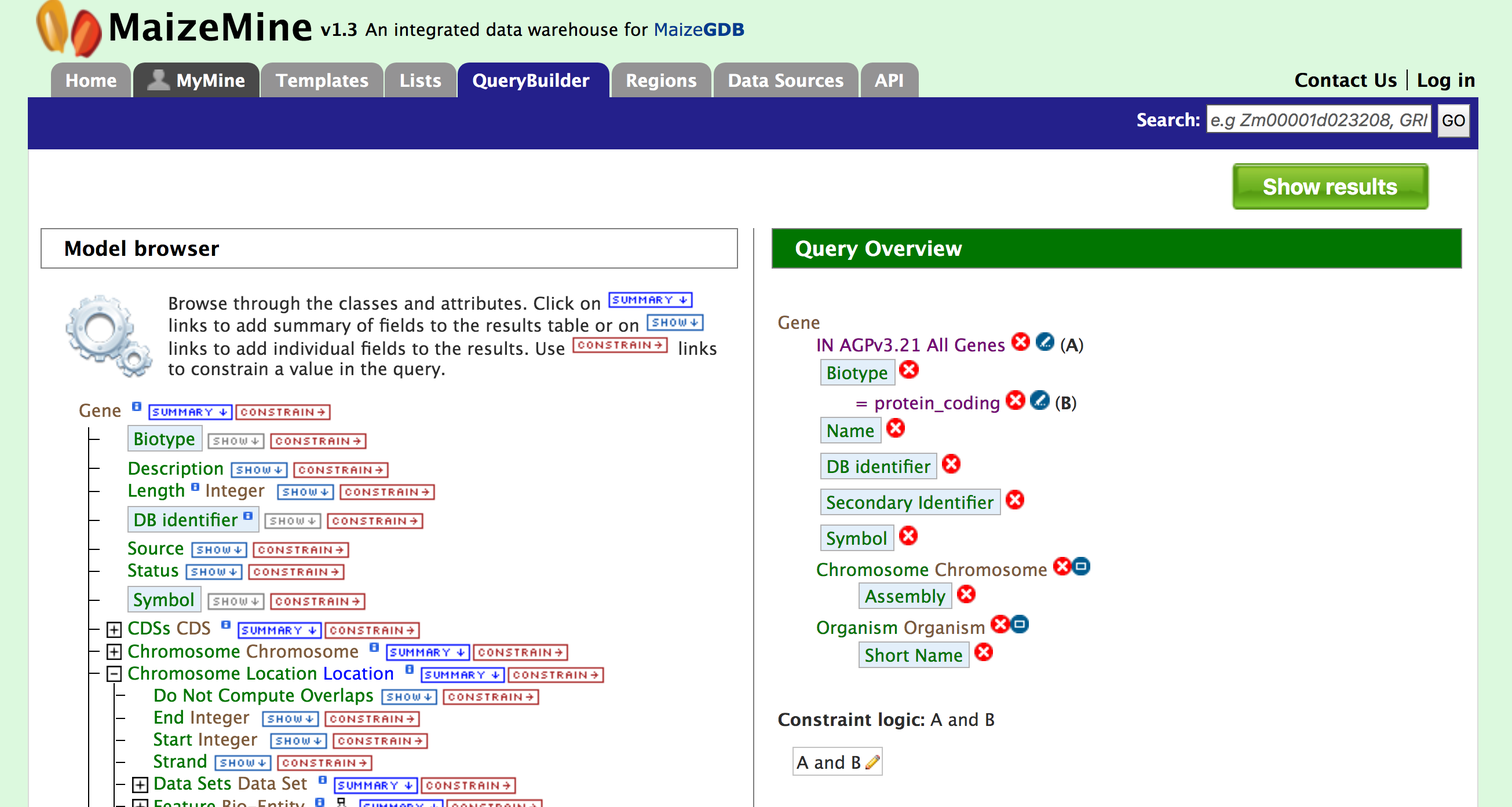
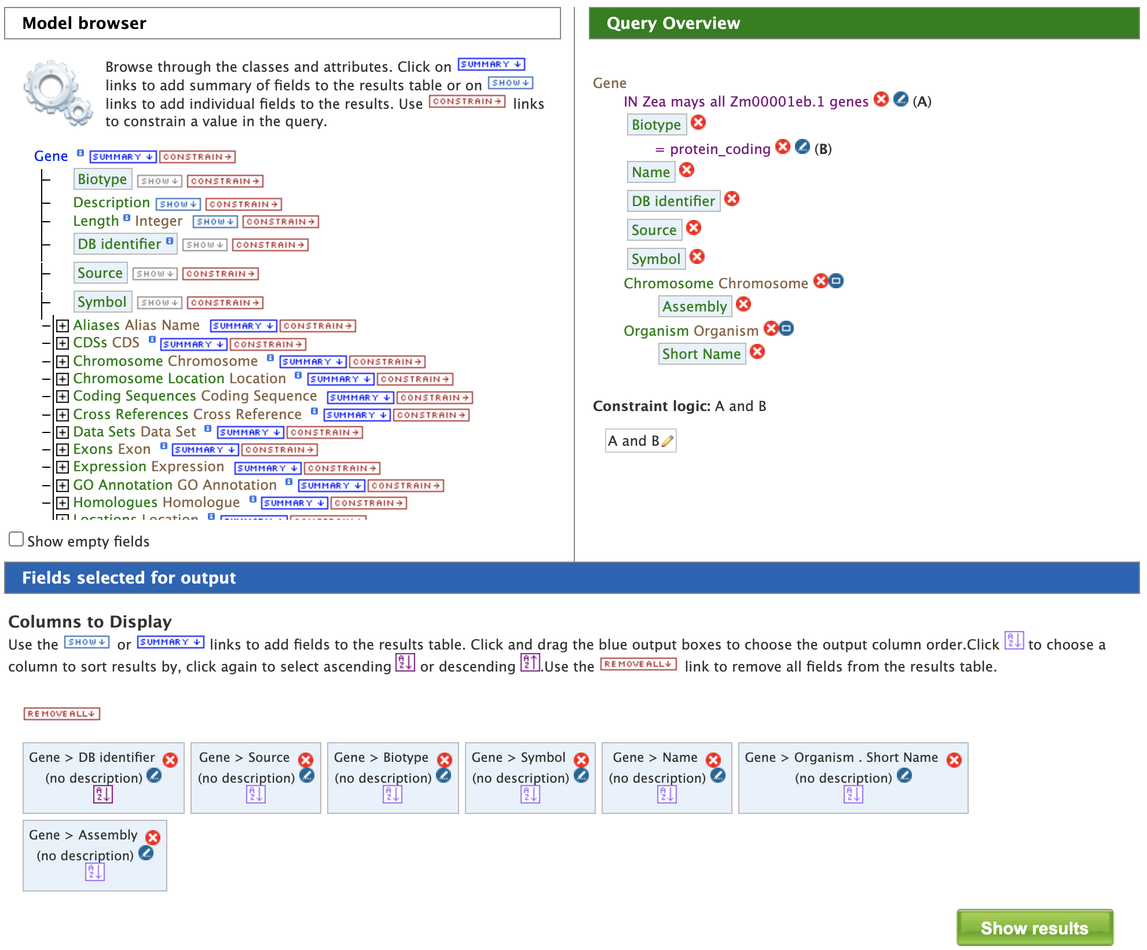
Updated documentation for v1.4 release

diff --git a/docs/index.md b/docs/index.md
@@ -3,7 +3,7 @@
 
 # Welcome to MaizeMine 
 ![Menu Bar](./images/fig1_homepage_main_menu_bar.png "Menu Bar")
-MaizeMine is powered by InterMine and provides a user-friendly way to access genomic, proteomic, interaction and literature data for the important crop plant *Zea mays*. MaizeMine is a part of the [Maize Genetics and Genomics Database](www.MaizeGDB.org) which is supported by the USDA-ARS.  This tutorial is focused on giving users an introduction to the different parts of MaizeMine and how users can fully leverage MaizeMine.  Currently, MaizeMine supports two versions (AGPv3 and AGPv4) of the maize B73 reference genome and the AGPv3.21, AGPv4 and RefSeq gene sets.  We anticipate adding additional updated B73 assemblies as they become available.
+MaizeMine is powered by InterMine and provides a user-friendly way to access genomic, proteomic, interaction and literature data for the important crop plant *Zea mays*. MaizeMine is a part of the [Maize Genetics and Genomics Database](www.MaizeGDB.org) which is supported by the USDA-ARS.  This tutorial is focused on giving users an introduction to the different parts of MaizeMine and how users can fully leverage MaizeMine.  The latest MaizeMine release supports the Zm-B73-REFERENCE-NAM-5.0 genome assembly of the maize B73 reference genome and the Zm00001eb.1 and RefSeq gene sets.  We anticipate adding additional updated B73 assemblies as they become available.
 > Link to the MaizeMine Homepage: http://maizemine.maizegdb.org 
 > 
 
@@ -24,7 +24,9 @@ _Regions_ – a Genomic Region Search page where users can enter genomic coordin
 
 _Data sources_ – a page where all data sources, their links and the date of download is specified in a tabulated format.
 
-__Help_- a page for guidance, when working through MaizeMine. _API_ – a page where users can discover more about the InterMine API to programmatically access MaizeMine.
+_Help_- a page for guidance, when working through MaizeMine. 
+
+_API_ – a page where users can discover more about the InterMine API to programmatically access MaizeMine.
 
 _MyMine_ – allows users the option of setting up a password protected, account in MaizeMine.  Once users are logged in, MyMine serves as portal for accessing saved lists and templates. Users can also manage their account information using MyMine.
 
@@ -32,17 +34,17 @@ _MyMine_ – allows users the option of setting up a password protected, account
 
 There are several different ways for users to query MaizeMine.
 
-**Quick-Search**
+**Quick Search**
 
-The ‘Quick-search’ enables users to search keywords from any of the datasets on MaizeMine. The quick-search box is on the main page and on the upper-right hand corner of each page.  Users can input their gene name, gene identifiers or keywords and search MaizeMine. Users can make use of wildcard character ‘*’ to get all results that matches their query.  Let us consider gene ‘bz1’ as an example. Enter ‘bz1’ in the search box and click ‘Search’.
+The ‘Quick Search’ enables users to search keywords from any of the datasets in MaizeMine. The Quick Search box is on the main page and on the upper-right hand corner of each page.  Users can input their gene name, gene identifiers or keywords and search MaizeMine. The wildcard character ‘*’ can be used to get all results that matches the query. As an example, enter ‘GR2b’ in the search box and click ‘Search’.
 
 ![Quick Search](./images/fig2_quick_search.png "Quick Search")
 
-The results page is tabulated below and shows a summary of your query.
+The results page is tabulated below and shows a summary of the query.
 
 ![Search Results](./images/fig3_Quick_Serach_bz1_results.png "Search Results")
 
-Users can filter the results based on ‘Category’ or ‘Organism’ (red box). The score column in the result table indicates the similarity of your query to the result fetched by MaizeMine.
+The results may be filtered based on ‘Category’ or ‘Organism’ (red box). The score column in the result table indicates the similarity of the query to the result fetched by MaizeMine.
 
 The results page can also be converted to a list. To enable this feature click on ‘Gene’ in ‘Hits by Category’ section marked with a red box.
 
@@ -52,213 +54,251 @@ This will filter the results for the feature type ‘Gene’ and checkboxes will
 
 **Templates**
 
-In addition to the Quick Search box, users can make use of templates which are pre-constructed queries developed using the “QueryBuilder” which will be covered later.  Templates can be accessed by clicking on the ‘Templates’ tab at the top of the home page or by accessing the “popular templates” section near the bottom of the page where templates are organized by type.  The Templates page provides users with a list of templates that users can choose based on the nature of their query.  Below we will provide two examples using the Templates feature of MaizeMine.  
+In addition to the Quick Search box, users can make use of templates which are pre-constructed queries developed using the “QueryBuilder” which will be covered later.  Templates can be accessed by clicking on the “Templates” menu tab or by accessing the “popular templates” section near the bottom of the page where templates are organized by type.  The Templates page provides a list of templates that users may choose from based on the nature of their query.  Below are two examples using the Templates feature of MaizeMine.  
 
 **1. Retrieving Gene Expression Values for a Gene**
-To utilize this template, which is shown in the figure below, users need only enter the gene model name (DB identifier) for their gene of interest and hit the “show results” button.  In addition to information on gene expression, detailed information will be returned on the sample growth stage, organ group, and plant ontology (PO) terms.
+To utilize this template, which is shown in the figure below, users only need to enter the gene model name (DB identifier) for their gene of interest and click the “Show Results” button.  In addition to information on gene expression, detailed information will be returned on the sample growth stage, organ group, and plant ontology (PO) terms.
 
 ![Gene Expression Search](./images/fig5_gene_expression_template.png "Gene Expression Search")
-The result page returns gene expression values in FPKP or normalized counts for 95 tissues. Users can also customize the layout of the result page by clicking on ‘Manage Columns’ (Box 1). Users can generate the code (Box 2) for the query in Perl, Python, Java, Ruby, JavaScript or XML. Users can also download the search results by clicking on “Export” (Box 3). The results can be formatted as tab-delimited, comma-separated values, XML or JSON.  Additionally, if the results are genomic features, then users can download the results in GFF3 and BED format as well.
+The result page returns gene expression values in FPKP for 91 tissues. The layout of the results table may be customized by clicking on ‘Manage Columns’ (Box 1). Users may generate the code for the query in Perl, Python, Java, Ruby, JavaScript or XML (Box 2). The search results can be downloaded by clicking on “Export” (Box 3). The format options for the results download file are tab-separated (.tsv), comma-separated values (.csv), XML, or JSON.  Additionally, if the results are genomic features, then the results can be downloaded in GFF3 and BED format as well.
 
 ![Gene Expression Search Results](./images/fig6_gene_expression_template_results.png "Gene Expression Search Results")
 
 **2.  Retrieving Gene Ontology (GO) Terms for a Gene**
-Given a maize gene symbol or gene ID, Gene Ontology terms can be obtained using the “Gene to GO Terms” template.  Let us use the gene id GRMZM2G094632 for our example below.  It is worth noting that any template can edited using the “Edit Query” feature (red box) that allows customization of a template to meet specific user needs.  As you gain experience with the QueryBuilder, modifying a preexisting template to meet your needs may be a good alternative to building a query de novo.
+Given a maize gene symbol or gene ID, Gene Ontology terms can be obtained using the “Gene to GO Terms” template.  The gene id Zm00001eb105010 is pre-filled in the text box as an example.  It is worth noting that any template may be edited using the “Edit Query” feature (red box) that allows customization of a template to meet specific user needs.  As users gain experience with the QueryBuilder, modifying a preexisting template may be a good alternative to building a query de novo.
 
 ![Searching for GO Terms Attached to a Gene](./images/fig7_gene_go_terms_template.png "Searching for GO Terms Attached to a Gene")
-A table is delivered below with the GO term identifiers, names, and descriptions.  Using the “Manage Columns” feature (red box #1), it is possible to re-arrange, remove, or even add columns to the table.  Using the “Manage Filters” button (red box #2) it is possible to edit of remove active filters and change the constraint logic applied within a template.  Each column in a table can be sorted, removed, or hidden.  Particularly useful is the “view column summary” feature represented by the small bar graph icon (red box #3).  Clicking on this icon allows viewing of the number, name, and counts of the types of entries within a column.
+After clicking "Show Results", a table is delivered below with the GO term identifiers, names, and descriptions.  Using the “Manage Columns” feature (red box #1), it is possible to re-arrange, remove, or even add columns to the table.  Using the “Manage Filters” button (red box #2) it is possible to edit of remove active filters and change the constraint logic applied within a template.  Each column in a table may be sorted, removed, or hidden.  Particularly useful is the “view column summary” feature represented by the small bar graph icon (red box #3).  Clicking on this icon allows viewing of the number, name, and counts of the types of entries within a column.
 
 ![GO Search Results](./images/fig8_gene_goterms_template_results.png "GO Search Results")
 
 ## **Query Builder**
 
-We have provided templates suitable for different types of queries but if users need more fidelity in their search they can make use of the QueryBuilder. The possibilities of queries using the QueryBuilder are endless. You can format the output the way you want and constrain your queries to perform complex search operations.  First lets select “Gene” as a Data Type (red arrow #1) in the QueryBuilder start page shown in the figure below. 
+While the templates provided are suitable for many different types of searches, new queries may be built from scratch using the QueryBuilder. The possibilities of queries using the QueryBuilder are endless. The query constraints may be customized to perform complex search operations, and the output can be formatted as desired.
+
+Three scenarios for using the QueryBuilder are described below.
+
+Each example begins by selecting “Gene” as the Data Type (red arrow #1) in the QueryBuilder start page as shown in the figure below. 
 
 ![Start Page for Query Builder](./images/fig9_querybuilder_startpage.png "Start Page for Query Builder")
 
-Then click on ‘Select’ (red arrow #2).  This will take you to a Model browser as shown below where you can select the attributes for the feature class “Gene”.  This should take you to page where you screen looks like the image below.  Now let us consider three scenarios for using the QueryBuilder,
-
+After clicking ‘Select’ (red arrow #2), the Model browser appears as shown below, displaying the attributes for the selected feature class “Gene”.
 
 ![Empty Model Browser Page](./images/fig10_querybuilder_modbrow_empty.png "Empty Model Browser Page")
 
-**1.  Querying for Protein Coding genes in AGPv3**
+**Example 1.  Querying for protein-coding genes in Zm00001eb.1**
 
-First, we want to restrict or constrain our results for protein genes in AGPv3.  Remember that we have three gene model sets in MaizeMine: AGPv3.21, AGPv4, and the latest release from RefSeq.  So first click on “Summary” box for “Gene” in the Model Browser shown in the left panel of the figure above and then on the “Constrain” box.  You should see the “Constrain” box pop up as shown in the figure below and then check the “Contained In list” box and select AGPv3.21All Genes.
+In this example, the results are restricted to protein genes in the Zm00001eb.1 gene set.  Recall that there are two gene model sets for *Zea mays* in MaizeMine v1.4: Zm00001eb.1 and the latest release from RefSeq.  First click on the “Summary” tab for “Gene” in the Model Browser shown in the left panel of the figure above and then the “Constrain” tab (to right of “Summary”).  A “Constraint for Gene” box pops up as shown in the figure below. Check the box next to “Contained in list:” and select Zm00001eb.1 Genes from the dropdown.
 
-![Constraining your search to All AGPv3.21 Genes](./images/fig11_querybuilder_constrain_biotypeV3.png "Constraining a search to All AGPv3.21 Genes") 
+![Constraining the search to all Zm00001eb.1 Genes](./images/fig11_querybuilder_constrain_biotypeV3.png "Constraining a search to all Zm00001eb.1 Genes") 
 
-Then click on "Add to query" and you will be returned to the Model Browser page.  Next click on ‘Show’ tab for “Biotype”, and “Constrain” tab and select “protein_coding” as shown in the figure below. 
+Then click “Add to query”. Note that the “Query Overview” section has been updated to reflect the selected attributes and query constraint. The “Summary” tab for Genes automatically adds the Gene attributes DB Identifier, Source, Biotype, Symbol, and Name, along with the Organism name and Chromosome assembly linked to the genes. At the top of the Query Overview , “IN Zea mays all Zm00001eb.1 genes” appears just below “Gene” as a constraint for this query. Next click on the “Constrain” tab for “Biotype” and select “protein_coding” from the dropdown as shown in the figure below. 
 
-![Restricting your search to protein coding genes](./images/fig12_querybuilder_constrain_protein.png "Restricting your search to protein coding genes")
+![Restricting the search to protein-coding genes](./images/fig12_querybuilder_constrain_protein.png "Restricting the search to protein-coding genes")
 
-By constraining your query to “protein_coding” you are restricting your results to only high quality protein coding gene models from AGPv3.21.  Now click on “Add to query”.  The Model Browser should resemble the image below
+Constraining the query to “protein_coding” filters the results to only high quality protein-coding gene models from Zm00001eb.1.  Click on “Add to query”.  The Model Browser should resemble the image below.
 
 ![Model Browser showing the current query](./images/fig13_querybuilder_modbrow_allv3.png "Model Browser showing the current query")
 
-Now if you click on ‘Show results’ it will show all 39,301 genes that have status “protein_coding” as shown below:
+Finally, clicking on “Show results” returns a table of 39,756 genes that have the status “protein_coding” as shown below:
 
-![Query Results](./images/fig14_querybuilder_v3_allprotiens_results.png "Query Results")
+![Query Results](./images/fig14a_querybuilder_v3_allproteins_results.png "Query Results")
 
-**2. Querying for protein coding genes on a particular chromosome** 
+Since there are no values in the Symbol or Name columns, these may be removed from the results table by clicking on the **&#215;** icon above the columns. The table then appears as shown below.
 
-Users can build on the above query by adding another constraint to limit the search to protein coding genes on a specific chromosome as shown in the figure below. Start by expanding the “Chromosome” feature class (red arrow #1) on and then select “summary” (red arrow #2).  Be sure to use the “Chromosome” feature class and not the “Chromosome Location” feature class that is located lower on the model browser.  Next, select “Constrain” on the “DB identifier” feature class (red arrow #3) and select “=” and enter “Chr1” in the pop up box and click on “Add to Query”.  Your query overview in the panel on the right side should resemble the one in the box below.
+![Query Results with columns removed](./images/fig14b_querybuilder_v3_allproteins_results.png "Query Results with columns removed")
 
-![Restricting a search to a specific chromosome](./images/fig15_modbrows_constrain_chr1.png "Restricting a search to a specific chromosome")
+**Example 2. Querying for protein-coding genes on a particular chromosome** 
 
-Note that in some cases you might want to restrict your query to a subset of coordinates on Chr1.  We will not be doing this example but in this situation you would expand the “Chromosome Location” feature and enter your desired coordinates under the “Constrain” “End Integers” and “Start Integers” boxes (red arrow #4).  It is worth noting that there might be easier ways to do this using the “Regions” search depending what information you might wish to obtain.  The Regions Search will be described later.
+This next example builds on the above query by adding another constraint to limit the search to protein-coding genes on a specific chromosome as shown in the figure below.
 
-If you click on the “Show Results” box, your results should look like those shown for 6007 protein coding genes on chromosome 1 below.
+Note that when viewing the results table, it is possible to return to the Query Builder for that query by clicking the Query link just above the table (red arrow in figure below). This allows users to easily modify their queries without having to repeat the steps of setting up the query each time.
 
-![Query Results for Protein Coding Genes on Chromosome 1](./images/fig16_querybuilder_results_chr1.png "Query Results for Protein Coding Genes on Chromosome 1")
+![Query link to return to Query Builder](./images/fig14c_querybuilder_v3_allproteins_results.png "Query link to return to Query Builder")
 
-**3. Querying for exon information in protein coding genes** 
+Back in the Query Builder interface, begin by clicking the &#x002B; (plus sign) next to “Chromosome” to expand the Chromosome feature class (red arrow #1) and then select “summary” (red arrow #2).  Be sure to use the “Chromosome” feature class and not the “Chromosome Location” feature class that is located lower on the model browser.  
 
-Users can customize the above query even  further by configuring the query to show all the exons and their lengths for each Gene as shown in the figure below.  Expand the ‘Exon’ feature class (red arrow) and select "show" on “DB Identifier” and “Length Integer” (red arrows).
+![Restricting a search to a specific chromosome](./images/fig15a_modbrows_constrain_chr1.png "Restricting a search to a specific chromosome")
+
+Next, click “Constrain” next to the “DB identifier” attribute (red arrow #3). In the constraint pop up box, select “=” from the drop-down and enter “chr1” into the text field; then click “Add to Query”. 
+
+![Chromosome identifier constraint pop up](./images/fig15b_modbrows_constrain_chr1.png "Chromosome identifier constraint pop up")
+
+The Query Overview in the panel on the right side should resemble the one in the box below.
+
+![Query overview for example 2](./images/fig15c_modbrows_constrain_chr1.png "Query overview for example 2")
+
+It is also possible to restrict the query to a subset of coordinates on chr1. In this situation, the “Chromosome Location” feature class would be expanded to reveal the attributes “Start Integers” and “End Integers”, and the desired coordinates would be entered after clicking the “Constrain” tab next to each attribute (similar to the previous step of constraining the chromosome identifier). It is worth noting that there might be easier ways to do this using the “Genomic Regions Search”, which will be described later.
+
+Clicking “Show Results” returns a table of 5,892 protein-coding genes on chromosome 1 as shown below.
+
+![Query Results for protein-coding Genes on Chromosome 1](./images/fig16_querybuilder_results_chr1.png "Query Results for protein-coding Genes on Chromosome 1")
+
+**3. Example 3: Querying for exon information in protein-coding genes** 
+
+The above results may be customized even further by configuring the query to show all of the exons and their lengths for each Gene as shown in the figure below.  Expand the “Exon” feature class (red arrow #1) and select “Show” next to the “DB identifier” and “Length” attributes (red arrows #2 and #3).
 
 ![Querying for Exon Information](./images/fig17_QueryBuilder_modbrow_Exon.png "Querying for Exon Information")
 
-To make the output more visually pleasing, click on the blue square near Exon collection in “Query Overview” (red arrow in Query Overview panel) and you will see the popup below.
+To make the output more visually pleasing, click on the blue square to the right of the Exon collection in the Query Overview panel (red arrow #4) and the popup shown below will appear.
 
-![Showing exons if  present](./images/fig18_querybuilder_constrain_popup_showallexons.png "Show exons if present")
+![Showing exons if present](./images/fig18_querybuilder_constrain_popup_showallexons.png "Show exons if present")
 
-Select ‘Show all Genes and show Exons if they are present’ and click on ‘Add to query’.  Now run the query and you should see the following results page,
+Select “Show all Genes and show Exons if they are present” and click on “Add to query”.  This will group all of the exons together for each Gene in the results table (rather than displaying one exon per row). Now run the query to view the table of results as shown below.
 
 ![Showing all exons with popup closed](./images/fig19_querybuild_genelist_Exons_closed.png "showing all exons with popup closed")
 
-There are 6,007 genes on Chromosome 1 and the AC155624.2_FG006 gene model has 5 exons. Users can click on the “5 exons” to expand the table with additional rows describing the length and DB identifier for each of the 5 exons as shown in the figure below.
+There are 5,892 genes on Chromosome 1 and the Zm00001eb000010 gene model has nine exons. Click on the “9 exons” text to expand the table with additional rows describing the length and DB identifier for each of the nine exons as shown in the figure below.
 
 ![Showing exons with popup open](./images/fig20_querybuild_genelist_Exons_open.png "Showing exons with popup open")
 
 ## **Report Page**
 
-Every query result has a report page and the layout of the report page depends on the data available for a given query. Using the example of “Zm00001d023210”, the report and summary section for this gene is shown below
+Every class (e.g., Gene, Protein, Exon) in MaizeMine has a report page; the layout of the report page depends on the data available for a given query. There are several ways to access a report page for a class: one method is to click on an the blue links in the results table after running or query, another is to simply search for an identifier using the Quick Search as described above and click on one of the search results.
+
+Using the example of “Zm00001eb000580”, the report and summary section for this gene is shown below.
 
 ![Report Page Summary](./images/fig21_reportsummary.png "Report Page Summary")
 
-The report page provides a complete description for gene Zm00001d023210. The header of the report page shows the DB identifier. The ‘Biotype’ indicates the type of gene, in this case a protein coding gene. Other possible values are,
+The report page provides a complete description for gene Zm00001eb000580. The DB identifier and organism name are displayed in the header. The “Biotype” indicates the type of gene, in this case a protein-coding gene. Other possible values are:
 
-· transposable_element – for transposable element
+· non_coding – non-coding gene
 
-· low_confidence – for low confidence gene model
+· lncRNA – long non-coding RNAs
 
-· lncRNA – for long non coding RNA
+· miRNA – micro RNAs
 
-· lincRNA – long non coding intergenic RNA
+· rRNA – ribosomal RNAs
 
-· miRNA – for micro RNAs
+· snRNA - small nuclear RNAs
 
-· rRNA – for ribosomal RNAs
+· snoRNA - small nucleolar RNAs
 
-· tRNA – for transfer RNAs
+· tRNA – transfer RNAs
 
-The summary section of the report page provides a summary about the gene such as length, chromosome location and strand information. Users can also get the complete FASTA sequence of the gene by clicking on the FASTA tab.
+· misc_RNA - miscellaneous RNA
+
+· antisense_RNA - antisense RNAs
+
+**Summary:**
+
+The Summary section of the report page provides a summary about the gene such as length, chromosome location, and strand information. Users can also download the complete FASTA sequence of the gene by clicking on the FASTA tab.
 
 **Alias and DBxref:**
 
-The Alias and DBxref provides aliases (if any) and cross references to other gene model sets or assemblies.  Currently, MaizeMine has gene models for the two latest B73 assemblies and the latest RefSeq gene models.
+The Alias and DBxref section provides aliases (if any) and cross references to other gene model sets or assemblies.  The current release of MaizeMine has gene models for the latest B73 assembly and the latest RefSeq gene models.
 
 ![DBxref section of reports page](./images/fig22_reportsummary_Dbxref.png "DBxref section of the reports page")
 
-**Transcript and Gene Expression:**
+**Transcript:**
 
-This section shown in the figure below provides information about the gene model. It displays all the transcripts and exons for a gene. The FASTA sequence of each transcript or exon (red arrows) can be downloaded by clicking on the FASTA tab. Users can also download the coding sequence for a transcript, when available, by clicking on the FASTA tab in the CDS column.  The Gene Expression section provides RNA-SEQ mean based expression data for 95 tissues for in both FPKM and normalized expression values.
+This section, shown in the figure below, provides information about the gene model. The first table displays all of the transcripts and exons for a gene. The FASTA sequence of each transcript or exon (red arrows) can be downloaded by clicking on the FASTA tab. The coding sequences for a transcript can also be downloaded, when available, by similarly clicking on the FASTA tab in the Coding Sequences column. The second table displays Polypeptides for the gene (if any).
 
-![Transcript and gene expression section](./images/fig23_reportsummary_transcipt_geneexpression.png "Transcript and gene expression section")
+![Transcript section](./images/fig23a_reportsummary_transcript_geneexpression.png "Transcript section")
+
+**Gene Expression:**
+
+The Gene Expression section provides RNA-SEQ mean based expression data for 91 tissues in FPKM expression values.
+
+![Gene expression section](./images/fig23b_reportsummary_transcript_geneexpression.png "Gene expression section")
+
+**Protein:**
+
+The Protein section provides information about the protein product of gene.
+
+![Protein section](./images/fig24a_reportsummary_protein.png "Protein section")
 
 **Function:**
 
-The function section below provides information on Gene Ontology (GO, red arrow) and pathway information (red arrow).  GO information is divided into three categories: 1) Biological Process, 2) Molecular Function, and 3) Cellular Component. GO terms are displayed along with the evidence code indicating how the annotations were derived.  Pathway information (if available) provides information on what metabolic pathways are involved including pathway identifiers, common pathway names, and the information source.
+The function section provides information on Gene Ontology (GO, red arrow #1) and pathway information (red arrow #2).  GO information is divided into three categories: 1) Cellular Component, 2) Molecular Function, and 3) Biological Process. GO terms are displayed along with the evidence code indicating how the annotations were derived.  Pathway information (if available) provides information on what metabolic pathways are involved including pathway identifiers, common pathway names, and the information source.
 
-![Function Section of Gene Report Page](./images/fig24_reportsummay_function.png "Function Section of Gene Report Page")
+![Function section](./images/fig24b_report_summary_function.png "Function section")
 
 **Homology and Publications**
 
-The homology and publications sections shown below provide information on transcript homologs in other species and from which dataset the information is derived and publications referencing the gene.
+The homology and publications sections provide information on transcript homologs in other species and from which dataset the information is derived and publications referencing the gene.
 
 ![Homology and Publications Section](./images/fig25_reportsummary_homologypublications.png "Homology and Publication Section")
 
 ## **Genomic Regions Search**
 
-The Genomic Region Search shown below is a tool to fetch features that are within a given set of genomic coordinates or to retrieve features that are within a given number of bases flanking a given set of genomic coordinates.  Currently, the Regions Search tool supports both the V3 and V4 assemblies.
+The Genomic Regions Search, shown in the figure below, is a tool to fetch features that are within a given set of genomic coordinates or to retrieve features that are within a given number of bases flanking a given set of genomic coordinates. Currently, the Regions Search tool supports the V5 assembly.
 
 The coordinates must be of the format:
 
-Chr#:start..end (e.g. Chr3:114909387..117230788 or Chr3:114,909,387..117,230,788)
+chr#:start..end (e.g. chr3:114909387..117230788 or chr3:114,909,387..117,230,788)
 
 OR
 
-Chr#:start-end (e.g. Chr3:114909387-117230788 or Chr3:114,909,387-117,230,788)
+chr#:start-end (e.g. chr3:114909387-117230788 or chr3:114,909,387-117,230,788)
 
-Click on “click to see an example” for a representative set of genomic coordinates.  It is also possible to upload a file with a list of coordinates.
+Click on one of the “example for input format” links for a representative set of genomic coordinates in that format.  It is also possible to upload a file with a list of coordinates.
 
-The Genomic Regions Search page in MaizeMine supports a wide variety of genomic feature types and is shown in the figure below.  Since some of the features (e.g. SNPs or Point Mutations) are very common in the genome, searching for these features within a large genomic region(s) can take a long time to run the query.  In these cases, it is advised to keep genomic search intervals as small as possible to accomplish the search.  Users can initiate the search process by choosing the features of interest and entering a set of coordinates in the accepted format.  Users can also extend the regions on either side of the genomic coordinates using the slider or enter them manually using the text box.  This is a useful feature, as many times the genomic search interval is approximate (e.g. genetic mapping) and a margin of error is needed.  Users can also select the type of coordinate system they would like to use: base coordinate or interbase coordinate.
+The Genomic Regions Search page in MaizeMine supports a wide variety of genomic feature types.  Since some of the features (e.g., SNPs) are very common in the genome, searching for these features within a large genomic region(s) can take a long time to run the query.  In these cases, it is advised to keep genomic search intervals as small as possible to accomplish the search.  Users can initiate the search process by choosing the features of interest and entering a set of coordinates in one of the accepted formats.  Optionally, the regions on either side of the genomic coordinates may be extended using the slider or by entering the amount manually using the text box.  This is a useful feature, as many times the genomic search interval is approximate (e.g., genetic mapping) and a margin of error is needed.  Users may also select the type of coordinate system they would like to use: base coordinate or interbase coordinate.
 
 ![Start page for Regions Search](./images/fig26_regions_search.png "Start page for Regions Search")
 
-Lets consider an example where you have mapped a mutation in leaf angle to ~1.3 M region on Chromosome 4 (Chr4:114909387-116230788) using high density molecular markers.  You want to know how many genes might be in this 1.3 M region and what mutant stocks, point mutations or transposable element insertion sites, might be available to test each of these genes for a similar mutation in leaf angle.  You start by checking the feature types, and then entering the coordinates as shown in the figure below. You also decide that you want a 100 kb region on either side to give your molecular mapping results a little leeway just in case.
+Suppose, as an example, a user has mapped a mutation in leaf angle to ~1.3 M region on Chromosome 4 (chr4:114909387-116230788) using high density molecular markers.  The user wants to know how many genes might be in this 1.3 M region and what mutant stocks or transposable element insertion sites might be available to test each of these genes for a similar mutation in leaf angle. Begin by checking the desired feature types and entering the coordinates as shown in the figure below. Using the slider or text box, extend the region by 100 kb on either side to give the molecular mapping results a little leeway just in case.
 
 ![Genomic Regions Search Example](./images/fig27_regions_pointmut_transposoninsert.png "Genomic Regions Search Example")
 
-The results page below for the Genomic Regions search gives a list of features that are present in the genomic interval provided in the input.  The results can be exported as tab-delimited and comma-separated values. If the results have genomic features then they can be exported in GFF3 or BED format. Users can also export FASTA sequences of the features.
+The results page for the Genomic Regions search gives a list of features that are present in the genomic interval provided in the input.  The results can be exported as tab-separated or comma-separated values. If the results have genomic features, then they can also be exported in GFF3 or BED format. The FASTA sequences of the features can also be downloaded.
 
 ![Results for Genomic Regions Search](./images/fig28_regions_results.png "Results for Genomic Regions Search")
 
-
-
-If users are interested in creating a list of particular features from the result page then they can filter based on feature type, shown in red box, and click on ‘Go’.
+To create a list of particular features from the result page, filter based on feature type (shown in the red box in the above figure) and click “Go”.
 
 ## **Lists**
 
-Users can create a list of features. The input can either be gene IDs, transcript IDs, gene symbols, etc. The list tool tries to lookup the query throughout the database and will attempt to convert the identifiers to the type selected in the list ‘Select Type’ option.  Let’s use the embedded example provided below for seven gene models from AGP_v4.  Click on “Click to see example” link to load the gene models in the search box and then click on “Create List”.
+Users may create and save lists of features, such as gene IDs, transcript IDs, gene symbols, etc. The list tool searches the database and will attempt to convert the identifiers to the type selected in the list “Select Type” option.
+
+Click on the “Click to see an example” text to load the example list of gene models into the search box and then click on “Create List”.
 
 ![Create List Example](./images/fig29_List_Tool.png "Create List Example")
 
-The list tool does a lookup of the identifiers and retrieves the results. If there are any duplicates, which there are not in this case, users can decide to add the relevant entries individually. Before allowing you to see the results, you will  be prompted to enter a name for your new list (see figure below).  
+The list tool performs a lookup of the identifiers and retrieves the results. If there are any duplicates, which there are not in this case, users can decide to add the relevant entries individually. Before displaying the results, users are prompted to enter a name for this new list (see figure below).  
 
 ![Choosing a Name for a List](./images/fig30_List_Tool_name.png "Choosing a Name for a List")
 
-Be sure to chose a name that accurately describes the contents of the new list as over time you will accumulate a large number of lists in the “My Mine” section and an accurate and detailed name prevents confusion when trying to retrieve lists for additional analysis.
+Be sure to chose a name that accurately describes the contents of the new list, as over time a large number of lists may be accumulated in the “My Mine” section, and an accurate and detailed name prevents confusion when trying to retrieve lists for additional analysis.
 
-Once you have named your list, click on the green “Save a List of 7 genes” button on the low right hand side of the above page. This will take users to the page below.  Users can download summary of the converted result.
+Once the list has been named, click on the green “Save a List of 7 genes” button. A “List Analysis” page is presented that contains widgets (listed below) allowing users to perform analyses on the genes in the list that they have created.
 
 ![List Creation Results](./images/fig31_List_Results.png "List Creation Results")
 
-This page also provides users with widgets (listed below) to perform analyses on gene lists that they have created.
+**Available widgets**
 
-**LIST WIDGETS AVAILABLE**
+Before using any of the widgets, please read the notes under “Important Notes for Enrichment Widgets to avoid false positives.”
 
 1. Gene Ontology Enrichment
 2. Publication Enrichment
 3. Pathway Enrichment
-4. Orthologues
 
 ## **MyMine**
 
-MyMine serves as a password-protected portal for users to manage their lists, queries, templates, and account details.  It is strongly suggested that MaizeMine users establish a MyMine account as this allows users to save lists from session to session.  Without a MyMine account, MaizeMine deletes lists after each session.
+MyMine serves as a password-protected portal for users to manage their lists, queries, templates, and account details.  It is strongly suggested that MaizeMine users establish a MyMine account as this allows them to save lists from session to session.  Without a MyMine account, MaizeMine deletes lists after each session.
 
 ![MyMine Page](./images/fig32_mymine.png "My Mine Page")
 
 1. Lists – lists saved by the user.
-2. History–a list of most recent queries performed by the user.
-3. Queries-all Queries saved by the user
-4. Templates – Templates created by the user or existing templates that are marked as ‘favorite’ by the user.
+2. History – a list of most recent queries performed by the user.
+3. Queries - all queries saved by the user
+4. Templates – templates created by the user or existing templates that are marked as “favorite” by the user.
 5. Password change – password management for the user’s account.
-6. Account Details-account information and personal preferences.
-
-
+6. Account Details - account information and personal preferences.
 
 ## **API**
 
-For users who would like to programmatically access MaizeMine, they can make use of the API.  Perl, Python, Ruby and Java are the languages supported by the InterMine API.  For more information on the details of the API visit the [Intermine website](http://intermine.org/)
+An API is available for users who would like to programmatically access MaizeMine.  Perl, Python, Ruby, and Java are the languages supported by the InterMine API.  For more information on the details of the API visit the [Intermine website](http://intermine.org/)
 
 ![API Access](./images/fig33_api.png "API Access")
 
 ## **Data Sources**
 
-The Data Sources page provides a description of the datasets that are integrated into MaizeMine along with their date of download, version or release, citations wherever applicable and any additional comments.
+The Data Sources page provides a description of the datasets that are integrated into MaizeMine along with their date of download, version or release, citations wherever applicable, and any additional comments.
 
 ![Sources of Data used in MaizeMine](./images/fig34_datasources.png "Sources of Data used in MaizeMine")
 
 ----------
 
-© Copyright 2019, Jack Gardiner, Justin Le Tourneau, Md Shamimuzzaman, Aditi Tayal, Deepak Unni, Colin Diesh, Chris Elsik, Darren Hagen.
+© Copyright 2021, Jack Gardiner, Justin Le Tourneau, Md Shamimuzzaman, Aditi Tayal, Deepak Unni, Colin Diesh, Chris Elsik, Darren Hagen.
